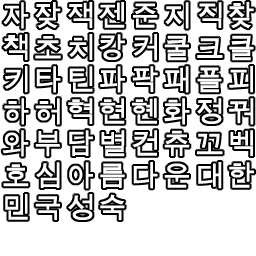
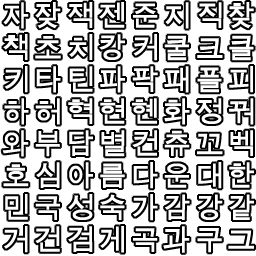
update
git-svn-id: https://svn.stepmania.com/svn/trunk@5204 822b03c2-8f45-0410-a444-95660a741a6f

Changed region(s): [[0.0, 0.75, 1.0, 1.0]]

diff --git a/stepmania/Utils/Font generation/Text.js b/stepmania/Utils/Font generation/Text.js
@@ -31,7 +31,7 @@ var OutputDir = "c:/temp/stepmania/utils/Font generation/Output/";
  * a single text layer with the characters we want.  The orientation, font, etc.
  * don't matter; they'll be overridden. */
 var JAFontPages = Array("main", "kanji 1", "kanji 2","kanji 3");
-var KRFontPages = Array("jamo 1", "jamo 2");
+var KRFontPages = Array("jamo 1", "jamo 2", "jamo 3", "jamo 4");
 
 var Fonts = new Array(
 	/* name                       font         pages        frame sz  font sz  AA                border   bold */
